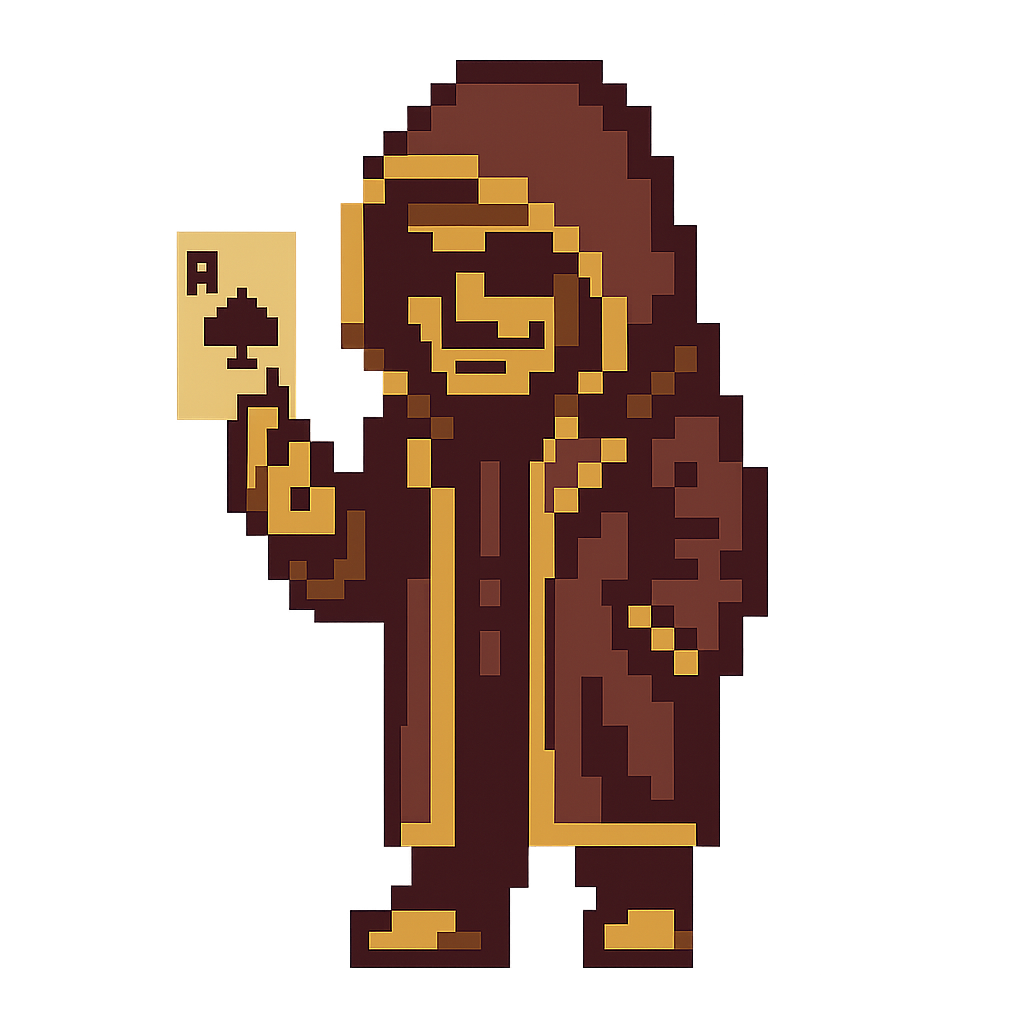
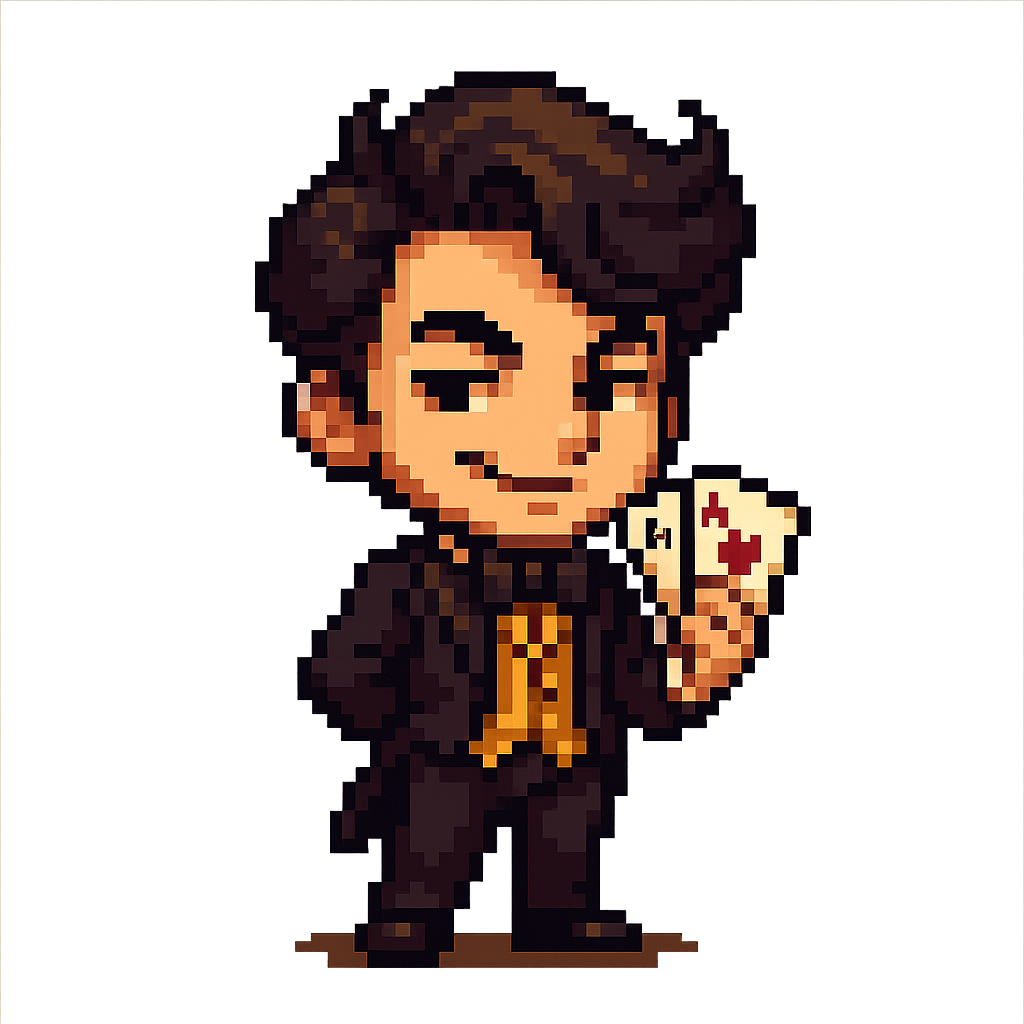
Comprehensive polish pass: bugs, design, UX, cleanup
Bugs fixed:
- Skull slot symbol now has its own image (was using cherry.png)
- Card overlay emoji stripped (📦 → plain text BLIND CHEST)

New features:
- Visual turn timer bar (top center, gold→amber→red countdown)
- Card draw sounds (card-good/card-bad/card-jail based on effect type)

Design cleanup:
- pixelBtn modernized: rounded corners, subtle shadow (no more blocky 4-side box-shadow)
- All old pixel box-shadows in minigame CSS replaced with modern shadows
- image-rendering: pixelated removed from minigame CSS (13 instances)
- Mascot regenerated with transparent background

Asset regeneration:
- Skull slot symbol generated
- Community chest tile regenerated (was blobby/unclear → treasure vault room)
- (Red tile regen attempted but hit OpenAI billing limit — existing is acceptable)

UX:
- TurnTimer component shows remaining time with color transitions
  - Gold bar when plenty of time
  - Amber at ≤10s
  - Red pulsing at ≤5s

diff --git a/app/globals.css b/app/globals.css
@@ -2622,7 +2622,6 @@ input {
 /* === Global Pixel Minigame Rules === */
 .pixelMinigame {
   font-family: 'Nunito', sans-serif;
-  image-rendering: pixelated;
   width: 100%;
   max-width: 700px;
   min-height: 80vh;
@@ -2635,7 +2634,6 @@ input {
 }
 
 .pixelMinigame img {
-  image-rendering: pixelated;
 }
 
 .pixelMinigame h2 {
@@ -2646,18 +2644,22 @@ input {
 
 .pixelBtn {
   font-family: 'Nunito', sans-serif;
-  box-shadow: 0 4px 0 #000, 4px 0 0 #000, 0 -4px 0 #000, -4px 0 0 #000;
-  image-rendering: pixelated;
-  border: none !important;
+  font-weight: 700;
+  border: 1px solid rgba(212, 175, 55, 0.4);
+  border-radius: 6px;
+  box-shadow: 0 4px 12px rgba(0, 0, 0, 0.4);
   cursor: pointer;
+  transition: filter 0.15s, transform 0.1s;
 }
 
 .pixelBtn:hover {
-  filter: brightness(1.2);
+  filter: brightness(1.15);
+  transform: translateY(-1px);
 }
 
 .pixelBtn:active {
   filter: brightness(0.9);
+  transform: translateY(1px);
 }
 
 .pixelCard {
@@ -2909,7 +2911,6 @@ input {
 .slotSymbolImg {
   width: 70px;
   height: 70px;
-  image-rendering: pixelated;
   object-fit: contain;
 }
 
@@ -2960,7 +2961,6 @@ input {
 .paytableIcon {
   width: 16px;
   height: 16px;
-  image-rendering: pixelated;
   vertical-align: middle;
 }
 
@@ -3261,14 +3261,12 @@ input {
   width: 120px;
   height: 120px;
   position: relative;
-  image-rendering: pixelated;
 }
 
 .dieImg {
   width: 100%;
   height: 100%;
   object-fit: contain;
-  image-rendering: pixelated;
   filter: drop-shadow(3px 3px 0 #000);
 }
 
@@ -3496,7 +3494,6 @@ input {
   width: 100%;
   height: 100%;
   object-fit: contain;
-  image-rendering: pixelated;
   filter: drop-shadow(0 2px 4px rgba(0, 0, 0, 0.5));
 }
 
@@ -3510,9 +3507,8 @@ input {
   width: 100%;
   height: 100%;
   object-fit: contain;
-  image-rendering: pixelated;
   border-radius: 50%;
-  box-shadow: 0 4px 0 #000, 4px 0 0 #000, 0 -4px 0 #000, -4px 0 0 #000;
+  box-shadow: 0 4px 12px rgba(0, 0, 0, 0.4);
 }
 
 .wheelStandWrap {
@@ -3525,7 +3521,6 @@ input {
   width: 100%;
   height: 100%;
   object-fit: contain;
-  image-rendering: pixelated;
 }
 
 .wheelSpinBtn {
@@ -3664,7 +3659,6 @@ input {
   display: flex;
   align-items: center;
   justify-content: center;
-  image-rendering: pixelated;
 }
 
 .msTileQuestion {
@@ -4224,7 +4218,7 @@ input {
   text-align: center;
   padding: 12px;
   background: rgba(0, 0, 0, 0.3);
-  box-shadow: 0 4px 0 #000, 4px 0 0 #000, 0 -4px 0 #000, -4px 0 0 #000;
+  box-shadow: 0 4px 12px rgba(0, 0, 0, 0.4);
 }
 
 .selectedGuess { font-size: 1.1rem; color: var(--gold); margin-bottom: 4px; }
@@ -4319,7 +4313,6 @@ input {
   width: 100%;
   height: 100%;
   object-fit: contain;
-  image-rendering: pixelated;
 }
 
 .safeBody {
@@ -4340,7 +4333,7 @@ input {
   align-items: center;
   background: var(--bg-elevated);
   cursor: pointer;
-  box-shadow: 0 4px 0 #000, 4px 0 0 #000, 0 -4px 0 #000, -4px 0 0 #000;
+  box-shadow: 0 4px 12px rgba(0, 0, 0, 0.4);
 }
 
 .dial.selected {
@@ -4374,7 +4367,6 @@ input {
   width: 100%;
   height: 100%;
   object-fit: contain;
-  image-rendering: pixelated;
   opacity: 0.3;
   transition: transform 0.2s steps(6);
 }
@@ -4433,7 +4425,7 @@ input {
   background: rgba(0, 0, 0, 0.3);
   border: 2px solid var(--gold);
   padding: 8px;
-  box-shadow: 0 4px 0 #000, 4px 0 0 #000, 0 -4px 0 #000, -4px 0 0 #000;
+  box-shadow: 0 4px 12px rgba(0, 0, 0, 0.4);
 }
 
 .historyTitle {
@@ -4871,6 +4863,64 @@ input {
   40% { transform: translate(4px, -1px) rotate(0.5deg); }
   60% { transform: translate(-3px, -1px) rotate(-0.3deg); }
   80% { transform: translate(3px, 1px) rotate(0.3deg); }
+}
+
+/* === Turn Timer === */
+.turnTimer {
+  position: fixed;
+  top: 8px;
+  left: 50%;
+  transform: translateX(-50%);
+  z-index: 900;
+  display: flex;
+  align-items: center;
+  gap: 8px;
+  padding: 4px 12px;
+  background: rgba(0, 0, 0, 0.7);
+  border: 1px solid rgba(212, 175, 55, 0.3);
+  border-radius: 20px;
+  backdrop-filter: blur(4px);
+}
+
+.turnTimerBar {
+  width: 80px;
+  height: 6px;
+  background: rgba(255, 255, 255, 0.1);
+  border-radius: 3px;
+  overflow: hidden;
+}
+
+.turnTimerFill {
+  height: 100%;
+  background: var(--gold);
+  border-radius: 3px;
+  transition: width 1s linear;
+}
+
+.turnTimer.urgent .turnTimerFill {
+  background: #f59e0b;
+}
+
+.turnTimer.critical .turnTimerFill {
+  background: #ef4444;
+  animation: timerPulse 0.5s ease-in-out infinite;
+}
+
+.turnTimerText {
+  font-family: 'Nunito', sans-serif;
+  font-size: 0.8rem;
+  font-weight: 700;
+  color: var(--ink);
+  min-width: 24px;
+  text-align: center;
+}
+
+.turnTimer.urgent .turnTimerText { color: #f59e0b; }
+.turnTimer.critical .turnTimerText { color: #ef4444; }
+
+@keyframes timerPulse {
+  0%, 100% { opacity: 1; }
+  50% { opacity: 0.5; }
 }
 
 /* Property Popup Actions */

diff --git a/components/UI/TurnTimer.tsx b/components/UI/TurnTimer.tsx
@@ -1,20 +1,40 @@
 'use client';
 
+import { useState, useEffect } from 'react';
 import { useSocket } from '@/context/SocketContext';
 
 export default function TurnTimer() {
-  const { turnTimer } = useSocket();
+  const { socket } = useSocket();
+  const [remaining, setRemaining] = useState<number | null>(null);
+  const [total, setTotal] = useState(45000);
 
-  if (!turnTimer || turnTimer.remaining <= 0) return null;
+  useEffect(() => {
+    if (!socket) return;
 
-  const pct = (turnTimer.remaining / turnTimer.total) * 100;
-  const seconds = Math.ceil(turnTimer.remaining / 1000);
-  const urgent = seconds <= 10;
-  const critical = seconds <= 5;
+    const handleTimer = (data: { remaining: number; total: number }) => {
+      setRemaining(data.remaining);
+      setTotal(data.total);
+    };
+
+    socket.on('turn:timer', handleTimer);
+    return () => { socket.off('turn:timer', handleTimer); };
+  }, [socket]);
+
+  if (remaining === null || remaining <= 0) return null;
+
+  const seconds = Math.ceil(remaining / 1000);
+  const pct = (remaining / total) * 100;
+  const isUrgent = seconds <= 10;
+  const isCritical = seconds <= 5;
 
   return (
-    <div className={`turnTimerBar ${urgent ? 'urgent' : ''} ${critical ? 'critical' : ''}`}>
-      <div className="turnTimerFill" style={{ width: `${pct}%` }} />
+    <div className={`turnTimer ${isUrgent ? 'urgent' : ''} ${isCritical ? 'critical' : ''}`}>
+      <div className="turnTimerBar">
+        <div
+          className="turnTimerFill"
+          style={{ width: `${pct}%` }}
+        />
+      </div>
       <span className="turnTimerText">{seconds}s</span>
     </div>
   );

diff --git a/components/Board/BoardCenterArt.tsx b/components/Board/BoardCenterArt.tsx
@@ -21,6 +21,12 @@ export default function BoardCenterArt({ isRolling, isAnimating }: BoardCenterAr
   const applyCardTimerRef = useRef<ReturnType<typeof setTimeout> | null>(null);
   useEffect(() => {
     if (state.phase === 'drawing-card' && state.drawnCard && isMyTurn) {
+      // Play card draw sound based on effect type
+      const effect = state.drawnCard.effect.kind;
+      if (effect === 'go-to-jail') play('sfx/card-jail');
+      else if (effect === 'pay' || effect === 'pay-each-player' || effect === 'repairs') play('sfx/card-bad');
+      else play('sfx/card-good');
+
       applyCardTimerRef.current = setTimeout(() => {
         dispatch({ type: 'APPLY_CARD' });
       }, 2000);
@@ -218,7 +224,7 @@ export default function BoardCenterArt({ isRolling, isAnimating }: BoardCenterAr
             <div className="cardOverlayCorner cardCornerBL" />
             <div className="cardOverlayCorner cardCornerBR" />
             <div className="cardOverlayDeckLabel">
-              {state.drawnCard.deckType === 'chance' ? '⚡ RISK' : '✦ BLIND CHEST'}
+              {state.drawnCard.deckType === 'chance' ? 'RISK' : 'BLIND CHEST'}
             </div>
             <div className="cardOverlayDivider" />
             <div className="cardOverlayIcon">

diff --git a/components/Board/Board.tsx b/components/Board/Board.tsx
@@ -12,6 +12,7 @@ import PropertyPopup from './PropertyPopup';
 import MoneyFloat, { useMoneyFloats } from './MoneyFloat';
 import RentAnimation from './RentAnimation';
 import ScreenEffects from '@/components/UI/ScreenEffects';
+import TurnTimer from '@/components/UI/TurnTimer';
 import { TILES } from '@/lib/gameData';
 // import { particles } from '@/lib/particles';
 
@@ -399,6 +400,7 @@ export default function Board() {
     <section className="boardWrap">
       {/* Global screen effects overlay */}
       <ScreenEffects />
+      <TurnTimer />
       
       <div ref={frameRef} className={`boardFrame ${isDiceFocus ? 'focused' : ''}`}>
         <div className="boardGrid" style={boardSize ? { width: `${boardSize}px`, height: `${boardSize}px` } : undefined}>

diff --git a/components/Minigames/SlotMachine.tsx b/components/Minigames/SlotMachine.tsx
@@ -21,7 +21,7 @@ const SYMBOL_IMAGES: Record<SlotSymbol, string> = {
   seven: '/assets/minigames/slots/seven.png',
   diamond: '/assets/minigames/slots/diamond.png',
   bar: '/assets/minigames/slots/bar.png',
-  skull: '/assets/minigames/slots/cherry.png',
+  skull: '/assets/minigames/slots/skull.png',
 };
 
 const REEL_SYMBOLS_EXTENDED = [